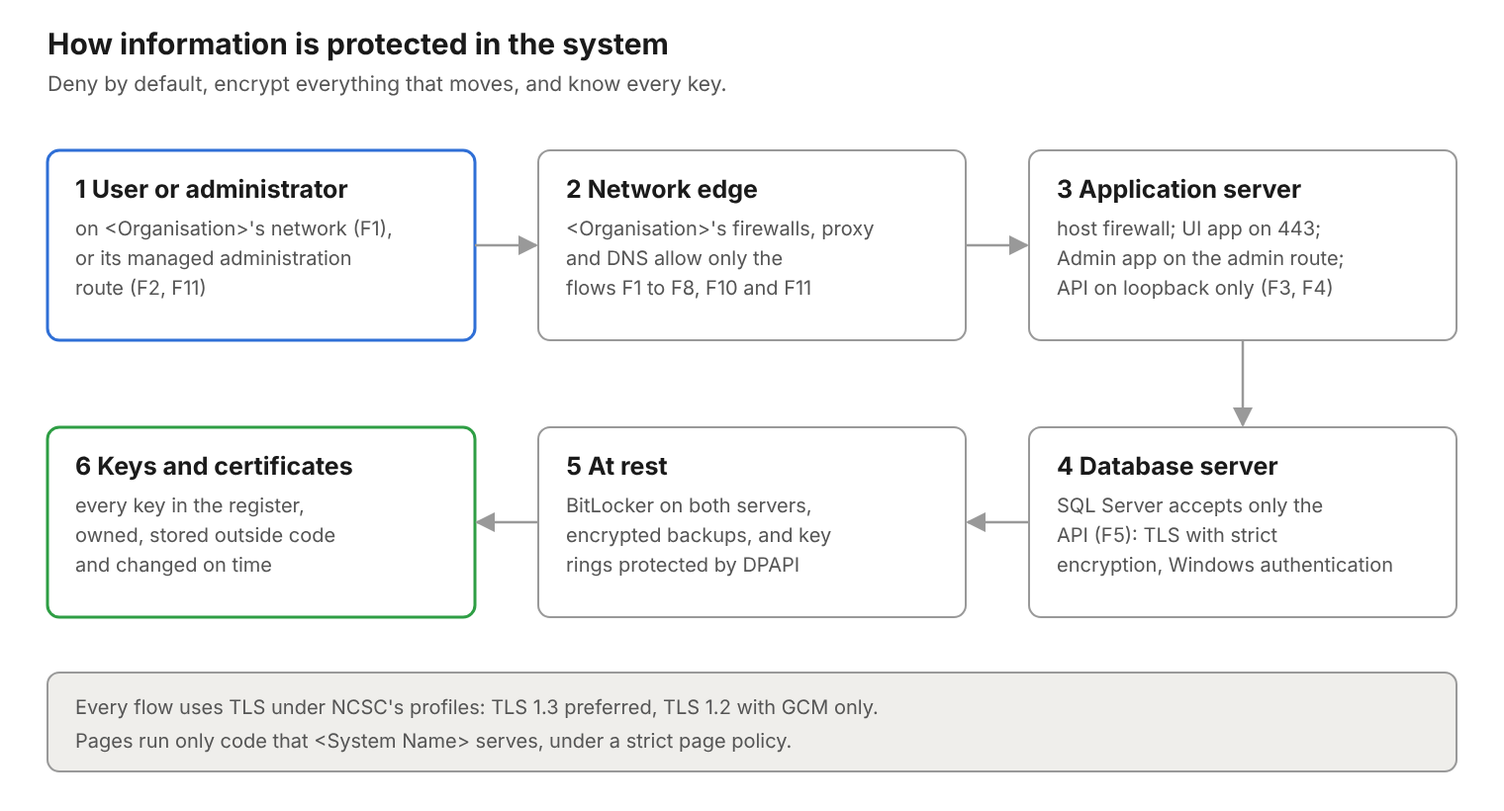
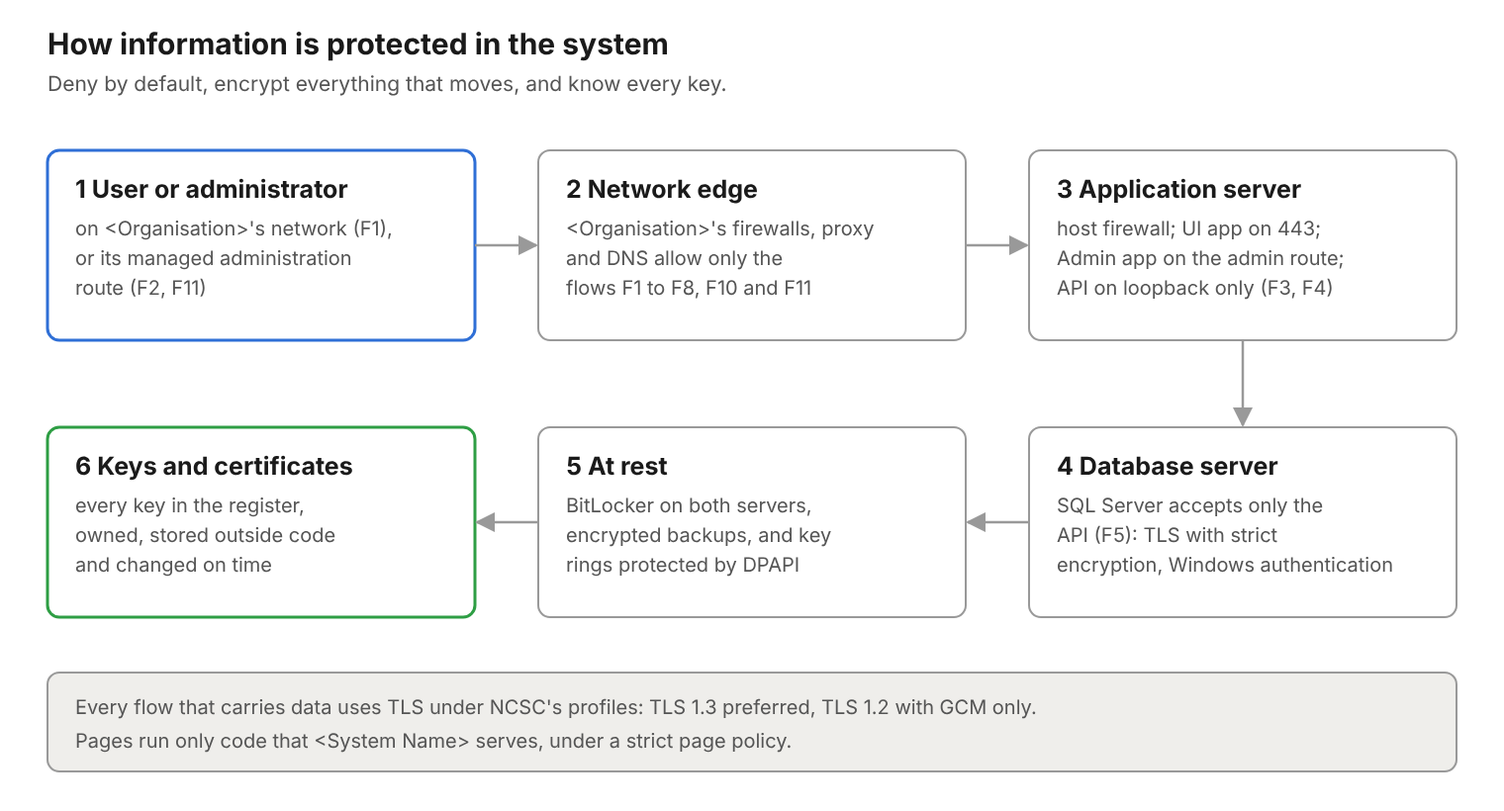
PL double-check of shared documents: a tailoring treatment is always the authorising official's (Policy 1.2, PRO-AC-17, RA design, Risk List treatments, Tailoring Register); plan review record kept in the change record (Policy R3); time on F8 is NTP, not TLS, in the SC policy and design, AC flows, A
Claude-Session: https://claude.ai/code/session_011QHn62RQcuySZZD79z7Pro

Changed region(s): [[0.1237, 0.8537, 0.6803, 0.8841]]

diff --git a/figures/src/scm-figure-1.html b/figures/src/scm-figure-1.html
@@ -40,6 +40,6 @@
 <line x1="1040" y1="528" x2="978" y2="528" stroke="#999" stroke-width="2.5" marker-end="url(#a)"/>
 <line x1="544" y1="528" x2="482" y2="528" stroke="#999" stroke-width="2.5" marker-end="url(#a)"/>
 <rect x="48" y="680" width="1424" height="100" rx="12" fill="#efeeeb" stroke="#999" stroke-width="2"/>
-<text x="76" y="722" font-size="20" fill="#555">Every flow uses TLS under NCSC's profiles: TLS 1.3 preferred, TLS 1.2 with GCM only.</text>
+<text x="76" y="722" font-size="20" fill="#555">Every flow that carries data uses TLS under NCSC's profiles: TLS 1.3 preferred, TLS 1.2 with GCM only.</text>
 <text x="76" y="756" font-size="20" fill="#555">Pages run only code that &lt;System Name&gt; serves, under a strict page policy.</text>
 </svg></body></html>

diff --git a/Policy.md b/Policy.md
@@ -28,7 +28,7 @@ The organisation takes a risk-based approach to these requirements. No system me
 
 1. Every non-compliance must be identified, documented and recorded in \<Risk List\>.
 2. Its risk must be rated by the method in \<Risk List\>, section 4.
-3. A named person must decide its treatment: accept, remediate, approve a value, obtain evidence or tailor the control. The system owner decides Low risks and the authorising official decides Medium and High risks.
+3. A named person must decide its treatment: accept, remediate, approve a value, obtain evidence or tailor the control. The system owner decides Low risks and the authorising official decides Medium and High risks. A decision to tailor is always the authorising official's (section PL.4, R10).
 4. A risk that is too high to accept requires a remediation plan in \<Plan of Action and Milestones\>. A High risk may be accepted only for a limited period while that plan runs.
 5. A remediation is carried out through that plan and its milestones, and does not begin simply because a non-compliance was found.
 6. Every acceptance is recorded with the name, date, reason and review date, and is reviewed at the interval in \<Risk List\>. PRO-AC-17 sets out the steps.
@@ -753,7 +753,7 @@ It applies to every system plan for \<System Name\>: the System Security Plan, t
 
 1. **R1 Register of plans:** every plan in force must be listed in \<Planning Management\>, section 3.2, with its owner, version, approver and next review.
 2. **R2 Approval:** the System Security Plan must be approved by the system owner, with the Head of Cyber's concurrence, and then reviewed and approved by the authorising official before it is put into effect. The privacy plan must be approved by the legal adviser and the authorising official. The supply chain plan is approved by the system owner.
-3. **R3 Review and change records:** each system plan must keep a plan review record (who reviewed, their role, the date, the outcome and actions) separate from its change record. Plans are reviewed every 12 months and after an assessment, significant change or problem found in use.
+3. **R3 Review and change records:** each system plan must keep a plan review record (who reviewed, their role, the date, the outcome and actions) distinct from the list of changes, and kept in the change record (\<Documentation Map\>, section 4.1). Plans are reviewed every 12 months and after an assessment, significant change or problem found in use.
 4. **R4 Sharing:** the SSP and its changes must be shared with the Head of Cyber, administrators and \<Organisation\>'s security contact, and each issue recorded in the plan review record.
 5. **R5 Protection:** plans and assessment evidence are marked \<Classification\>. Issued copies must be kept in the restricted SharePoint area, never in a code repository or a public location, and only people who need them may read or change them. Until that area is set up, the master copy is kept in the private records repository described in \<Documentation Map\>, section 4.1.
 6. **R6 Rules of behaviour:** the Security Operating Procedures are the rules of behaviour. Part A applies to everyone, and Part B, the privileged rules, to the privileged users listed in \<Security Operating Procedures\>, Table 1: the system owner, administrators, auditors, the security officer, business owners, the legal adviser's delegate, the Windows server and database administrators, and any developer given access to a live system as well. Everyone signs before access, and the signature is recorded on TPL-21 and in the register of signatures.
@@ -1034,7 +1034,7 @@ Information in \<System Name\> must be protected wherever it travels or rests. \
 ### SC.3 Control principles
 
 1. **Deny by default:** only the agreed flows are allowed, at \<Organisation\>'s firewalls and on each VM.
-2. **Encrypt everything that moves:** every flow uses TLS, including those that stay inside a VM.
+2. **Encrypt everything that moves:** every flow uses TLS, including those that stay inside a VM. The one exception is time from \<Organisation\>'s time service, which uses NTP, authenticated where that service allows.
 3. **Know every key:** every key and cryptographic use is recorded, owned, protected and changed on time.
 4. **Separate:** administration and the API are kept apart from everyday use.
 
@@ -1042,7 +1042,7 @@ Information in \<System Name\> must be protected wherever it travels or rests. \
 
 1. **R1 Flows:** only the flows F1 to F11 in \<System Description\>, section 6.5, as set out in \<System Security Plan\>, section 3.7, Table 7, and \<System Description\>, section 6.5, are allowed. Traffic is denied by default at \<Organisation\>'s firewalls and at each VM's host firewall, using the allow-lists in \<System and Communications Protection Management\>, section 3.2.
 2. **R2 Listening addresses:** the UI application listens on TCP 443 only. The Admin application is reachable only over \<Organisation\>'s managed administration route. The API listens only on the application server's loopback address. SQL Server accepts connections on TCP 1433 only from the application server. Only the application server reaches PingFederate, on TCP 443 (F10). Server and database administration reaches both servers only from the administrators' managed devices over the managed administration route (F11).
-3. **R3 Transport:** every flow must use TLS under NCSC's profiles. TLS 1.3 is preferred, with hybrid post-quantum key exchange where the platform supports it. TLS 1.2 is allowed only with the GCM profiles. SSL, TLS 1.0 and 1.1, compression and TLS 1.3 early data (0-RTT) must be off.
+3. **R3 Transport:** every flow, except time from \<Organisation\>'s time service (NTP), must use TLS under NCSC's profiles. TLS 1.3 is preferred, with hybrid post-quantum key exchange where the platform supports it. TLS 1.2 is allowed only with the GCM profiles. SSL, TLS 1.0 and 1.1, compression and TLS 1.3 early data (0-RTT) must be off.
 4. **R4 Web traffic and cookies:** the apps must serve HTTPS only and redirect HTTP, send HSTS with a maximum age of at least 1 year, and mark every cookie Secure, HttpOnly and SameSite. The authentication cookie is \<System Name\>'s session: it has an absolute lifetime of 8 hours with no sliding extension, never longer than PingFederate's sign-in (\<System Description\>, P-02), and holds no groups.
 5. **R5 Database:** SQL Server 2022 must accept network connections only over TLS 1.2 or later with strict encryption. The API must connect with Windows authentication under its group managed service account, so no database password exists, and with full certificate and server name checking.
 6. **R6 Cryptography:** only the algorithms in the cryptographic register may be used: NCSC's TLS profiles, XTS-AES 256 for disk encryption, AES-256 for backups, SHA-256 for file and release checksums, and HMAC-SHA-256 with a random key of at least 256 bits for the tokens between the applications and for the audit chain. No MD5 or SHA-1 is used for protection, and no cryptography is written in-house. \<System Name\> holds no passwords. Validation of cryptographic modules to a United States standard is not required.

diff --git a/System Description.md b/System Description.md
@@ -976,7 +976,7 @@ Table 45 gives each CSS control family, the reference design in brief, and the d
 | PT PII Processing and Transparency | Personal data is processed only for the purposes in the profile. An inventory, a retention schedule built into the system, a search across schemas for people's requests, and an impact assessment | \<PII Processing Management\> |
 | RA Risk Assessment | Categorised from the profile. A threat model, a risk list on the CSS method, a vulnerability timetable (P-11), and a list of critical components | \<Risk Assessment Management\> |
 | SA System and Services Acquisition | Built in-house under the corporate SDLC, meeting CSS, with reviewed changes, a pipeline with automated tests and scans, verification to P-28, and external services reviewed yearly | \<System and Services Acquisition Management\> |
-| SC System and Communications Protection | Deny by default at the firewalls and on each server, TLS on every flow, a register of every key, a strict page policy, and encryption at rest | \<System and Communications Protection Management\> |
+| SC System and Communications Protection | Deny by default at the firewalls and on each server, TLS on every flow except time (NTP), a register of every key, a strict page policy, and encryption at rest | \<System and Communications Protection Management\> |
 | SI System and Information Integrity | Uploads are checked and scanned for malware, flaws are fixed to the timetable, logs are forwarded and nine events raise alerts, and releases are checked against a baseline | \<System and Information Integrity Management\> |
 | SR Supply Chain Risk Management | A supplier register with criticality, every package through one checked source with lock files and a bill of materials, and each release inspected against its record | \<Supply Chain Risk Management\> |
 
@@ -1015,7 +1015,7 @@ These are questions an assessor is likely to ask, each with the reference answer
 | Who can see every item? | Nobody, by right of a role. The business owner sees only the details of items due for disposal, not their content. The legal adviser's delegate can search every schema for one person's items, and database administrators could read items by querying the database, only under an approved change or incident; SQL Server Audit records it and the auditor reviews it weekly | \<Access Control Management\> |
 | How is a leaver's access removed? | As P-06 sets. Once the AD account is disabled, the application refuses the person within 5 minutes, even mid-session | \<Access Control Management\> |
 | What are the session limits? | The sign-in session ends 8 hours after sign-in (P-02), on Sign out, or within 5 minutes of the person's access being removed; an open page re-checks every 5 minutes; and the device screen lock hides it when idle (P-03) | \<Access Control Management\> |
-| Is data encrypted in transit? | Yes, on every flow, as P-26 sets | \<System and Communications Protection Management\> |
+| Is data encrypted in transit? | Yes, on every flow that carries data, as P-26 sets. Time from \<Organisation\>'s time service uses NTP, authenticated where that service allows | \<System and Communications Protection Management\> |
 | Is data encrypted at rest? | Yes: full-disk encryption on both servers, encrypted backups and encrypted export working copies | \<System and Communications Protection Management\> |
 | Where are items stored? | In the database, each schema in its own database schema | Section 7.4 |
 | Where are secrets kept? | In a key store, never in source code or settings files | \<System and Communications Protection Management\> |

diff --git a/Contingency Planning Management.md b/Contingency Planning Management.md
@@ -10,7 +10,7 @@ Section 3 is the design, and is the contingency plan that CP-2 requires: the pri
 
 Copies go to the people in section 3.4 and the authorising official. \<Organisation\>'s IT service desk receives sections 3.5, 3.6 and 3.9 and appendix A, which it needs to act (CP-02\_ODP\[04\]). The same people are told of every change, with a note of what changed (CP-2f).
 
-The document is marked \<Classification\>. It is kept in the restricted document store with the other records, where only the people above can read it and only the system owner can change it (CP-2h). The system owner and security officer each keep a current offline copy, so that the plan can be used when \<System Name\> and the document store are down. The offline copy is section 3 with appendices A and B, which together are the whole plan. There is no separate plan document. Each offline copy is held on an encrypted \<Organisation\> managed device, or printed, marked and kept in locked storage, and is replaced whenever the plan changes (PRO-CP-7). The superseded copy is destroyed as \<Media Protection Management\>, section 3.6, sets out.
+The document is marked \<Classification\>. It is kept in the restricted document store (until the store is set up, the private records repository; \<Documentation Map\>, section 4.1) with the other records, where only the people above can read it and only the system owner can change it (CP-2h). The system owner and security officer each keep a current offline copy, so that the plan can be used when \<System Name\> and the document store are down. The offline copy is section 3 with appendices A and B, which together are the whole plan. There is no separate plan document. Each offline copy is held on an encrypted \<Organisation\> managed device, or printed, marked and kept in locked storage, and is replaced whenever the plan changes (PRO-CP-7). The superseded copy is destroyed as \<Media Protection Management\>, section 3.6, sets out.
 
 ## 2 Related documents
 
@@ -246,7 +246,7 @@ SQL Server's transaction log backups are taken between the daily backups and cop
 
 **Deleted items in backups.** An item deleted from the database, at the end of its retention period or after a person's request, stays in the encrypted backups until they expire, at most 12 months for a monthly copy. It is beyond use there: the backups are encrypted, held apart and restored only for recovery or a restore test. A recovery re-applies the deletions before users return (section 3.7), and a restore test server is removed after the test. Expired backups are deleted at both sites by \<Organisation\>'s backup service, including the offline or immutable copy once its lock ends (\<Media Protection Management\>, section 3.6, method M2).
 
-The system documentation, including this plan and the other security and privacy documents, is under version control, and each change is kept in the restricted document store.
+The system documentation, including this plan and the other security and privacy documents, is under version control, and each change is kept in the restricted document store (until the store is set up, the private records repository; \<Documentation Map\>, section 4.1).
 
 ### 3.9 Second site and telecommunications
 

diff --git a/Administrator Guide.md b/Administrator Guide.md
@@ -11,7 +11,7 @@ Values in \[brackets\] are for the developers to fill.
 1. Build the two Windows Server 2025 VMs to \<Organisation\>'s hardened build and the baseline in \<Configuration Management\>; turn on full-disk encryption and Microsoft Defender before \<System Name\> is installed, and deploy the App Control for Business policy in audit mode (\<Configuration Management\>, section 3.15).
 2. Install the applications from a release tag only, and check the release checksums. Never install from a working branch. Install each application as a Windows service, under its own group managed service account.
 3. Put the token signing key, the audit chain key and the OpenID Connect client credential in the key store, never in a settings file or in Git. There is no database password: only the API connects to the database, by Windows authentication under its managed service account. Its SQL Server login is not a system administrator, has rights on \<System Name\>'s database only, and cannot change the database structure.
-4. Turn on TLS for every flow, F1 to F8 and F10 in \<System Description\>, section 6.5, including the database connection (F5) and the connection to PingFederate (F10), with strict encryption and the server's certificate and name checked in full.
+4. Turn on TLS for every flow in \<System Description\>, section 6.5, that \<System Name\> sets up: F1 to F5, F7 and F10, and the logging, update and backup traffic in F8 where \<Organisation\>'s service allows it (time uses NTP), including the database connection (F5) and the connection to PingFederate (F10), with strict encryption and the server's certificate and name checked in full.
 5. Publish the Admin application only on \<Organisation\>'s managed administration route (F2; route R3), never on every interface. Bind the API to the application server's loopback address only (F3, F4). Allow server and database administration only from the administrators' managed devices over the managed administration route, with multi-factor authentication and named accounts (F11).
 6. Set up backups as in \<Contingency Planning Management\>, section 3.8: put the database in the full recovery model; create the backup encryption certificate and export it, with its private key, to the key store and its protected copy at the second site before the first backup; take daily encrypted backups with checksums, transaction log backups between them, and weekly backups of the system databases, all written to \<Organisation\>'s backup service.
 7. Run Test-AccessControl.ps1, Test-Identification.ps1 and Test-ConfigurationManagement.ps1 against the built VMs, and keep the results (\<System and Services Acquisition Management\>, section 3.9).

diff --git a/Procedures.md b/Procedures.md
@@ -345,7 +345,7 @@ Copying \<System Name\> data to portable storage or an external system is not a 
 1. Whoever finds a non-compliance, whether through an assessment, a review, a test or an incident, reports it to the system owner.
 2. The system owner records it in \<Risk List\>, section 5, and rates the risk by the method in \<Risk List\>, section 4.
 3. The system owner proposes a treatment: accept, remediate, approve, evidence or tailor.
-4. The system owner decides Low risks. The authorising official decides Medium and High risks.
+4. The system owner decides Low risks. The authorising official decides Medium and High risks. A tailoring treatment is always decided by the authorising official, whatever the rating (PRO-PL-4).
 5. **If accepted:** the decision maker records the reason, any compensating measure, the name, the date and the review date in \<Risk List\>, section 3. The non-compliance remains in place.
 6. **If remediated:** the system owner adds an item to \<Plan of Action and Milestones\> with a milestone, a resource and a date. The fix follows that plan. It does not start until this decision is made, unless the authorising official directs urgent action.
 7. **If approved, evidenced or tailored:** the system owner records the value in \<Access Control Management\>, the evidence request in \<Evidence Requests\>, or the rationale in \<Tailoring Register\>.
@@ -1586,7 +1586,7 @@ These procedures carry out \<Policy\> (SR). Steps marked **Manual** rely on peop
 1. Every 12 months, and before a new critical supplier is used, the supply chain team reviews each critical supplier with TPL-16: the questions cover how it builds and protects what it supplies, how it reports problems, and its support period. **Manual**
 2. For \<Organisation\>, the team uses the evidence in EV-SR-01 and EV-SR-02. For open-source suppliers, it uses their published security policy and advisory history. **Manual**
 3. The team updates the supplier register and the plan, and records any new risk in \<Risk List\>. **Manual**
-4. The system owner approves the updated plan and keeps it in the restricted store. **Manual**
+4. The system owner approves the updated plan and keeps it in the restricted store (until the store is set up, the private records repository; \<Documentation Map\>, section 4.1). **Manual**
 
 #### PRO-SR-3 Inspecting a release
 

diff --git a/Configuration Management.md b/Configuration Management.md
@@ -59,7 +59,7 @@ Controls met here: CM-3, CM-9.
 | Release scripts: service installation and database structure scripts | Git repositories, tagged at each release | Developers, PRO-CM-1 |
 | Application settings, without secrets | Settings files at the release tag; secrets held in the key store, outside the baseline | Developers, Windows server administrator |
 | Windows Server 2025 and SQL Server 2022 settings | CIS Benchmarks and recorded exceptions; SQL Server's server-level settings (the API's login, SQL Server Audit and the backup jobs) as scripts in the release repositories, so that a rebuilt server matches, checked against the weekly system-level backup (\<Contingency Planning Management\>, section 3.6.1) | Windows server and database administrators |
-| Security documents | Restricted document store | System owner |
+| Security documents | Restricted document store; until it is set up, the private records repository (\<Documentation Map\>, section 4.1) | System owner |
 
 ### 3.4 Baseline
 
@@ -231,7 +231,7 @@ Controls met here: CM-5.
 | SQL Server settings and database structure | The named database administrators, the structure only through a release. The API's database account cannot create, alter or drop tables | Database permissions (\<Access Control Management\>, section 3.6) |
 | Application settings and secrets | The named Windows server administrators | Windows permissions on the settings files; secrets in the key store |
 | The hosts, network and firewall | \<Organisation\> | Its physical and logical controls, and its change process (EV-CM-01) |
-| This document set | The system owner | The restricted document store, under version control |
+| This document set | The system owner | The restricted document store, under version control; until it is set up, the private records repository (\<Documentation Map\>, section 4.1) |
 
 Nobody approves a change they requested or made. Every change by any of these people follows the route in section 3.7.
 

diff --git a/System and Communications Protection Management.md b/System and Communications Protection Management.md
@@ -76,7 +76,7 @@ Each server's host firewall denies everything not listed below (SC-7(5)). \<Orga
 
 Controls met here: SC-7(4), SC-8, SC-8(1), SC-10, SC-13, SC-23.
 
-Every flow uses this profile, from NCSC's guidance. It covers F1 to F5, including the API calls that stay on the application server (F3, F4), F7, the API's LDAPS connection to Active Directory, on which the directory's certificate is checked, and F10, the applications' HTTPS connection to PingFederate for its OpenID Connect metadata and signing certificate and to complete each sign-in, on which PingFederate's certificate is checked. F6, sign-in through PingFederate, and F8, the servers' time, logging, proxy and backup traffic, are encrypted as \<Organisation\> sets. F9 is between people and carries nothing to or from \<System Name\>. F11, server and database administration, runs only over \<Organisation\>'s managed administration route, encrypted as \<Organisation\> sets.
+Every flow uses this profile, from NCSC's guidance. It covers F1 to F5, including the API calls that stay on the application server (F3, F4), F7, the API's LDAPS connection to Active Directory, on which the directory's certificate is checked, and F10, the applications' HTTPS connection to PingFederate for its OpenID Connect metadata and signing certificate and to complete each sign-in, on which PingFederate's certificate is checked. F6, sign-in through PingFederate, and F8, the servers' logging, proxy and backup traffic, are encrypted as \<Organisation\> sets. Time, also on F8, uses NTP from \<Organisation\>'s time service, authenticated where that service allows. F9 is between people and carries nothing to or from \<System Name\>. F11, server and database administration, runs only over \<Organisation\>'s managed administration route, encrypted as \<Organisation\> sets.
 
 **Table 4: TLS profile**
 

diff --git a/PII Processing Management.md b/PII Processing Management.md
@@ -149,7 +149,7 @@ Eight of the privacy baseline controls are assessed with this family, but part o
 | IR-2(3) Breach | \<Awareness and Training Management\>, briefing part B6 and modules M7 and M9; \<Incident Response Management\>, section 3.4 | Breach training: module M7 for incident roles, module M9 for the roles in the training matrix, and briefing part B6 for every user, on recognising a breach, reporting it within 1 hour (\<System Description\>, P-21), and the breach steps |
 | IR-8(1) Breaches | \<Incident Response Management\>, section 3.8 | The breach steps: the legal adviser and the security officer judge the harm and what would reduce it, and the legal adviser decides whether to tell the ICO and the people affected. UK GDPR Articles 33 and 34 apply: a report to the ICO within 72 hours of becoming aware, telling people when the risk to them is high, and recording every breach |
 | PE-8(3) Limit PII Elements | \<Physical and Environmental Protection Management\> | What visitor records may hold: name, organisation, and the date and time of the visit |
-| PL-9 Central Management | \<Planning Management\> | The one document set: policies, plans, registers and records under one owner, checked by one consistency test, and kept in the restricted store |
+| PL-9 Central Management | \<Planning Management\> | The one document set: policies, plans, registers and records under one owner, checked by one consistency test, and kept in the restricted store (until the store is set up, the private records repository; \<Documentation Map\>, section 4.1) |
 | SC-7(24) PII | This document, section 3.11 | Processing rules and monitoring |
 
 ### 3.10 What \<Organisation\> provides

diff --git a/Access Control Management.md b/Access Control Management.md
@@ -255,7 +255,7 @@ Controls met here: AC-4.
 | F5 | Application server | Database server | SQL Server over TLS 1.2 or later with strict encryption, TCP 1433 | The API's database connection |
 | F6 | Users' and administrators' browsers | \<Organisation\>'s PingFederate | HTTPS | Signing in. Both ends are \<Organisation\>'s, so this needs no rule for \<System Name\>'s servers |
 | F7 | Application server | \<Organisation\>'s Active Directory domain controllers | LDAPS, TCP 636 | The API reading each signed-in person's group memberships |
-| F8 | Both servers | \<Organisation\>'s time service, central logging, proxy and backup site | As \<Organisation\> sets, encrypted | Accurate audit times, log forwarding, updates and backups |
+| F8 | Both servers | \<Organisation\>'s time service, central logging, proxy and backup site | As \<Organisation\> sets: logs, updates and backups encrypted; time by NTP, authenticated where the service allows | Accurate audit times, log forwarding, updates and backups |
 | F10 | Application server | \<Organisation\>'s PingFederate | HTTPS, TCP 443 | The UI app and the Admin app fetching PingFederate's OpenID Connect metadata and signing certificate, and completing each sign-in |
 | F11 | Server and database administrators' managed devices, over \<Organisation\>'s managed administration route, with multi-factor authentication | Both servers | Tool and protocol to be supplied by \<Organisation\> | Server and database administration, using named accounts |
 

diff --git a/System Security Plan.md b/System Security Plan.md
@@ -754,7 +754,7 @@ The assessment plan is in \<Control Assessment Record\> (SR), section SR.4, wher
 | Control | How it is implemented | Who | Type | Status | Gap entry |
 | --- | --- | --- | --- | --- | --- |
 | SR-1 Policy and Procedures | Policy and procedures in \<Policy\> (SR) and \<Procedures\> (SR); the plan is \<Supply Chain Risk Management\> | System owner, Head of Cyber | Organisational | \[Status\] | \[Decision\] |
-| SR-2 Supply Chain Risk Management Plan | \<Supply Chain Risk Management\> \<ver\>, with a supplier register and risk tolerance, held in the restricted store | System owner | Organisational | \[Status\] | \[Decision\] |
+| SR-2 Supply Chain Risk Management Plan | \<Supply Chain Risk Management\> \<ver\>, with a supplier register and risk tolerance, held in the restricted store (until the store is set up, the private records repository; \<Documentation Map\>, section 4.1) | System owner | Organisational | \[Status\] | \[Decision\] |
 | SR-2(1) Establish SCRM Team | Team named, including \<Organisation\>'s IT service desk | System owner | Organisational | \[Status\] | \[Decision\] |
 | SR-3 Supply Chain Controls | Controls on how components come in (\<Supply Chain Risk Management\>, section 3.7) | System owner, developers | Hybrid | \[Status\] | \[Decision\] |
 | SR-5 Acquisition Strategies | Acquisition strategies in \<Supply Chain Risk Management\> | Developers, \<Organisation\> | Hybrid | \[Status\] | \[Decision\] |

diff --git a/Risk Assessment Management.md b/Risk Assessment Management.md
@@ -150,7 +150,7 @@ Findings come from four sources: security assessments, privacy assessments, moni
 | --- | --- | --- | --- |
 | 1 Record | Each finding that is not satisfied becomes an entry in the Risk List's non-compliance register, linked to the risk it adds to | System owner | \<Risk List\>, section 5 |
 | 2 Rate | The entry is rated by the method in section 3.3 | System owner | \<Risk List\> |
-| 3 Decide | The person the rating calls for decides: accept, remediate, approve, obtain evidence from \<Organisation\>, or tailor | System owner for Low; authorising official for Medium and High | \<Decision Register\>; acceptances in \<Risk List\>, section 3 |
+| 3 Decide | The person the rating calls for decides: accept, remediate, approve, obtain evidence from \<Organisation\>, or tailor | System owner for Low; authorising official for Medium and High, and for any tailoring (PRO-PL-4) | \<Decision Register\>; acceptances in \<Risk List\>, section 3 |
 | 4 Plan | A remediation goes into the Plan of Action and Milestones, with milestones and a due date. A vulnerability follows the timetable in section 3.6 | System owner | \<Plan of Action and Milestones\> |
 | 5 Review | Each acceptance is reviewed by its review date: Medium every 6 months and Low every 12 | System owner; authorising official | \<Risk List\>, section 3 |
 
